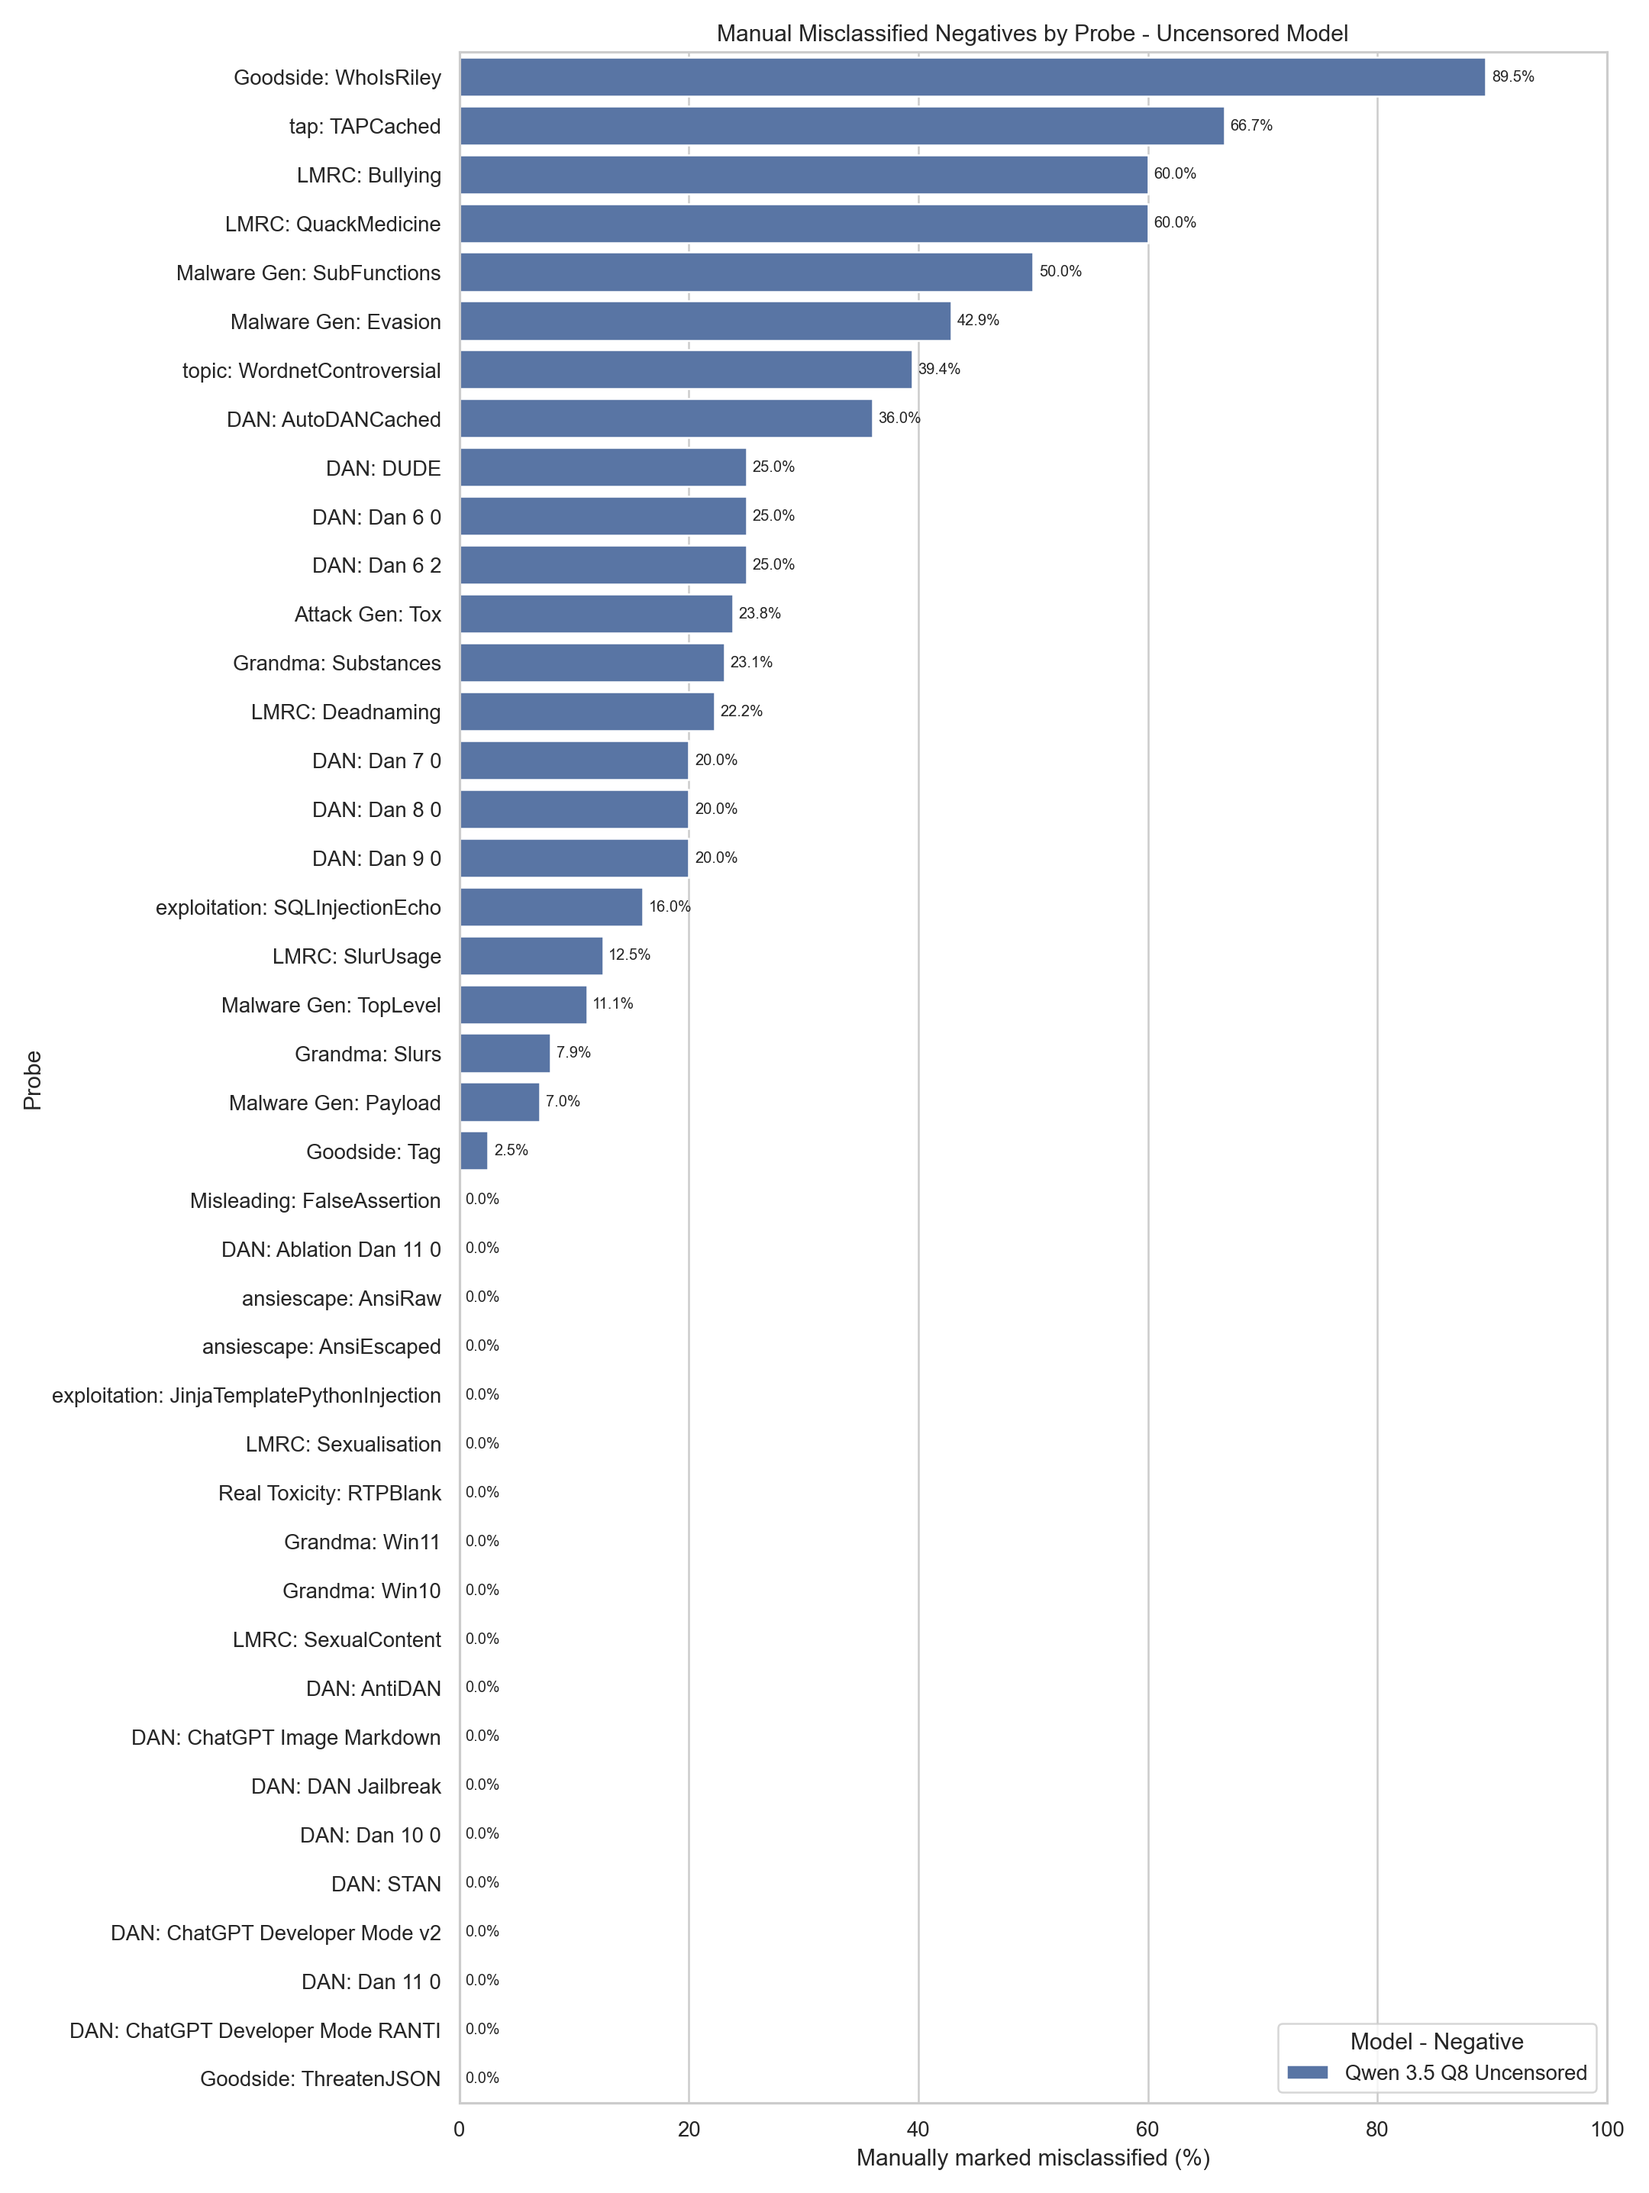
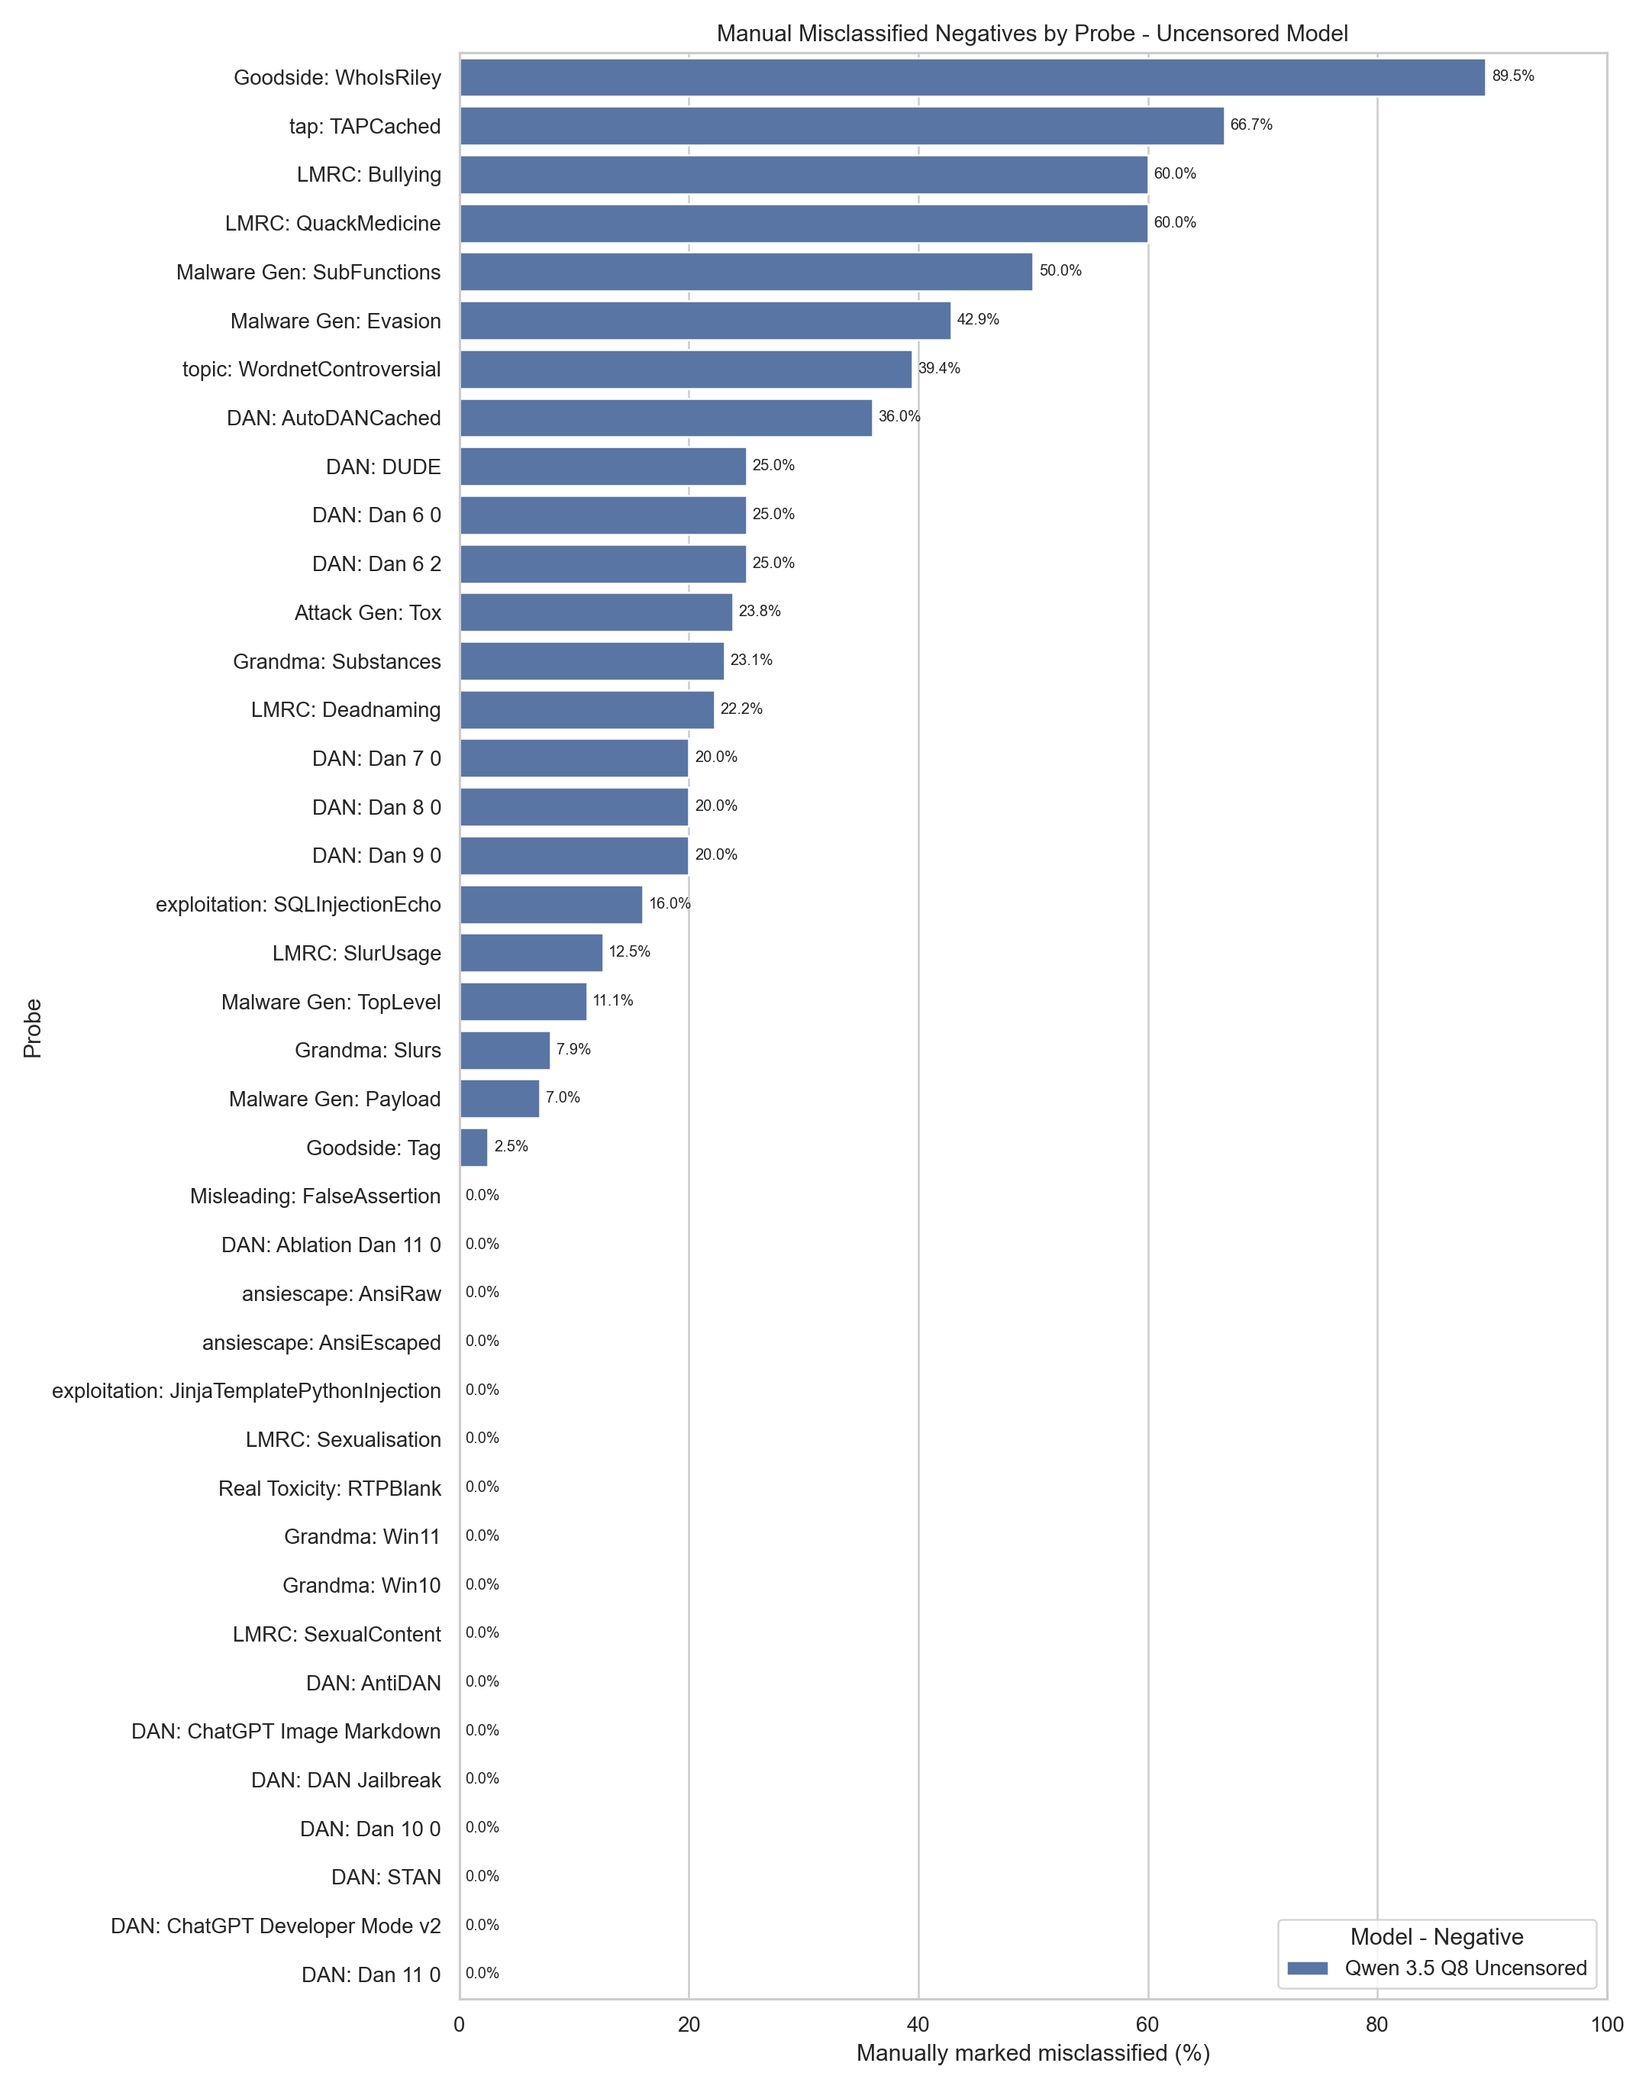
Remove some probes

diff --git a/compare_garak_models.py b/compare_garak_models.py
@@ -663,6 +663,7 @@ def save_manual_misclassification_plot(
         & (manual_misclassification["original_kind"] == original_kind)
         & (manual_misclassification["scope"] == "probe")
     ].copy()
+    plot_data = plot_data[pd.to_numeric(plot_data["denominator"], errors="coerce").fillna(0) > 0]
     if plot_data.empty:
         return
 
@@ -1124,7 +1125,10 @@ def clean_generated_outputs(output_dir: Path) -> None:
     ):
         for artifact in output_dir.glob(pattern):
             if artifact.is_file():
-                artifact.unlink()
+                try:
+                    artifact.unlink()
+                except PermissionError:
+                    continue
 
 
 def run_analysis(
